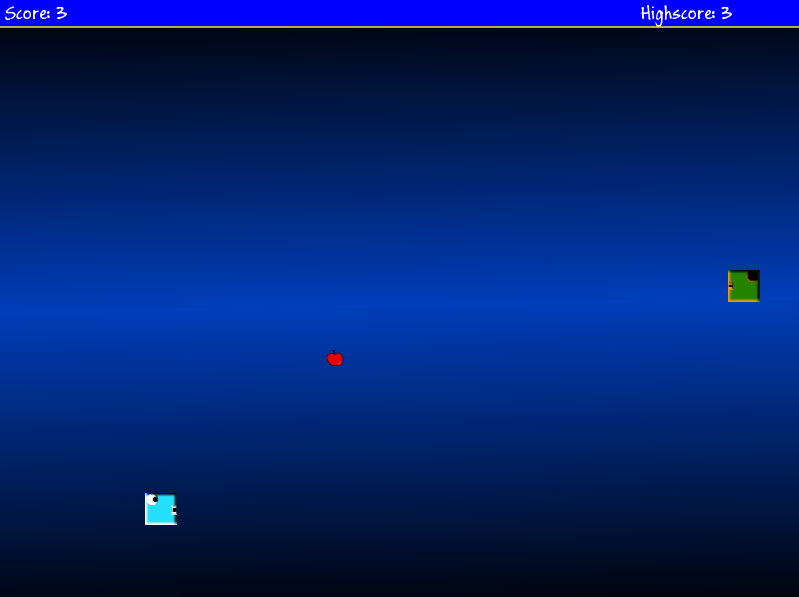
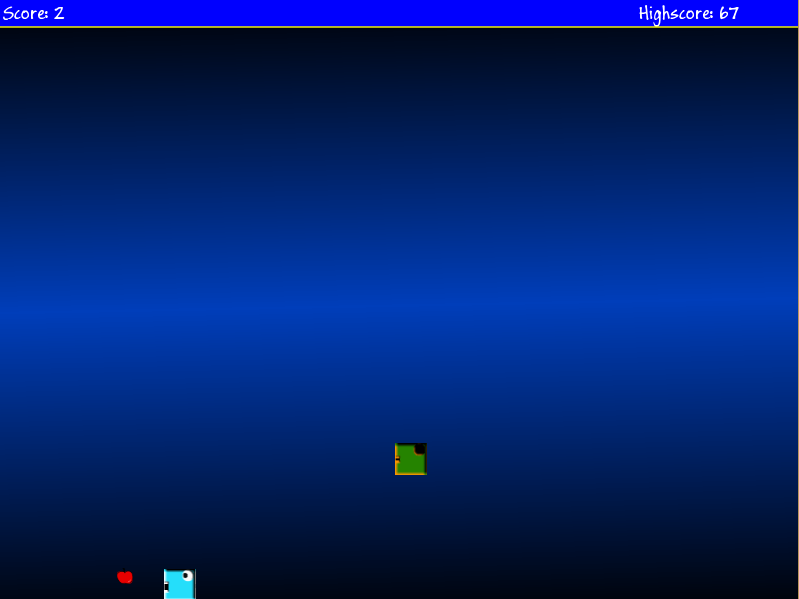
Updated to v1.2
See changelog for details

diff --git a/CHANGELOG.md b/CHANGELOG.md
@@ -1,7 +1,15 @@
 ChangeLog
 ==========
 
-v1.1
+v1.2 (July 7, 2014)
+----
+- FIXED : Bugged reset highscore button
+- FIXED : Enemy AI improved
+- Customized buttons
+- Added the option to mute the background music in start and pause menu
+- Enemy speed increases as score increases to increase difficulty
+
+v1.1 (July 6, 2014)
 ----
 - FIXED : Bugged diagonal movement of player which gave player more speed than moving straight
 - Improved Graphics; player sprite, enemy sprite and food sprite

diff --git a/README.md b/README.md
@@ -20,11 +20,3 @@ Screenshots:
 ![Gameplay](Screenshots/game.png "In Game")
 
 ![Game Over](Screenshots/gameover.png "Game Over")
-
-Possible Additions:
-----
-- Difficulty levels
-- Enemy character speed and rotation increasing over time
-- number of enemies increasing
-- timer
-- Ability to reset highscore
